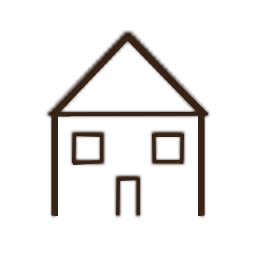
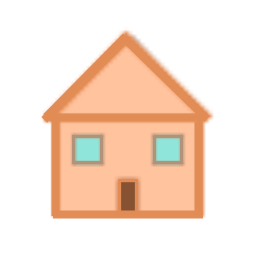
Balanced costs up to end of Ancient era by trial+error. This does NOT include upgrades. Updated Era images as well as house/building and barn images.

diff --git a/core/src/com/blackphoton/planetclicker/core/Mechanics.java b/core/src/com/blackphoton/planetclicker/core/Mechanics.java
@@ -262,10 +262,10 @@ public class Mechanics {
 		BuildingEntry village = (BuildingEntry) buildingInfo.addEntry("Village", 20000, "village.png", Data.getEraList().get(4), town, villageArray, toTownArray, null);
 
 		ArrayList<RequiredResource> hamletArray = new ArrayList<RequiredResource>();
-		bundleResources(hamletArray, 400, 250, 25, 0, 10);
+		bundleResources(hamletArray, 25, 100, 10, 0, 2);
 		ArrayList<RequiredResource> toVillageArray = new ArrayList<RequiredResource>();
 		bundleResources(toVillageArray, 500, 750, 0, 20, 0, 500);
-		BuildingEntry hamlet = (BuildingEntry) buildingInfo.addEntry("Hamlet", 200, "hamlet.png", Data.getEraList().get(3), village, hamletArray, toVillageArray, null);
+		BuildingEntry hamlet = (BuildingEntry) buildingInfo.addEntry("Hamlet", 2000, "hamlet.png", Data.getEraList().get(3), village, hamletArray, toVillageArray, null);
 
 		ArrayList<RequiredResource> houseArray = new ArrayList<RequiredResource>();
 		bundleResources(houseArray, 5, 15, 3, 1);
@@ -308,7 +308,7 @@ public class Mechanics {
 
 		ArrayList<RequiredResource> fishingArray = new ArrayList<RequiredResource>();
 		bundleResources(fishingArray, 100, 0, 0, 10);
-		foodInfo.addEntry("Fishing", 250, "fishing.png", Data.getEraList().get(3), null, fishingArray, null, null);
+		foodInfo.addEntry("Fishing", 2500, "fishing.png", Data.getEraList().get(3), null, fishingArray, null, null);
 
 		ArrayList<RequiredResource> fieldArray = new ArrayList<RequiredResource>();
 		bundleResources(fieldArray, 10, 5);
@@ -435,7 +435,7 @@ public class Mechanics {
 		specialInfo.addEntry("Great Wall", 50, "great_wall.png", Data.getEraList().get(2), null, wall, null, new Special_ResourceBundle(3));
 
 		ArrayList<RequiredResource> colosseum = new ArrayList<RequiredResource>();
-		bundleResources(colosseum, 0, 1500, 0, 500, 1000, 0, 0, 0, 0, 0);
+		bundleResources(colosseum, 0, 1500, 0, 500, 100, 0, 0, 0, 0, 0);
 		specialInfo.addEntry("Colosseum", 100, "colosseum.png", Data.getEraList().get(3), null, colosseum, null, new Special_ResourceBundle(4));
 
 		ArrayList<RequiredResource> pisa = new ArrayList<RequiredResource>();
